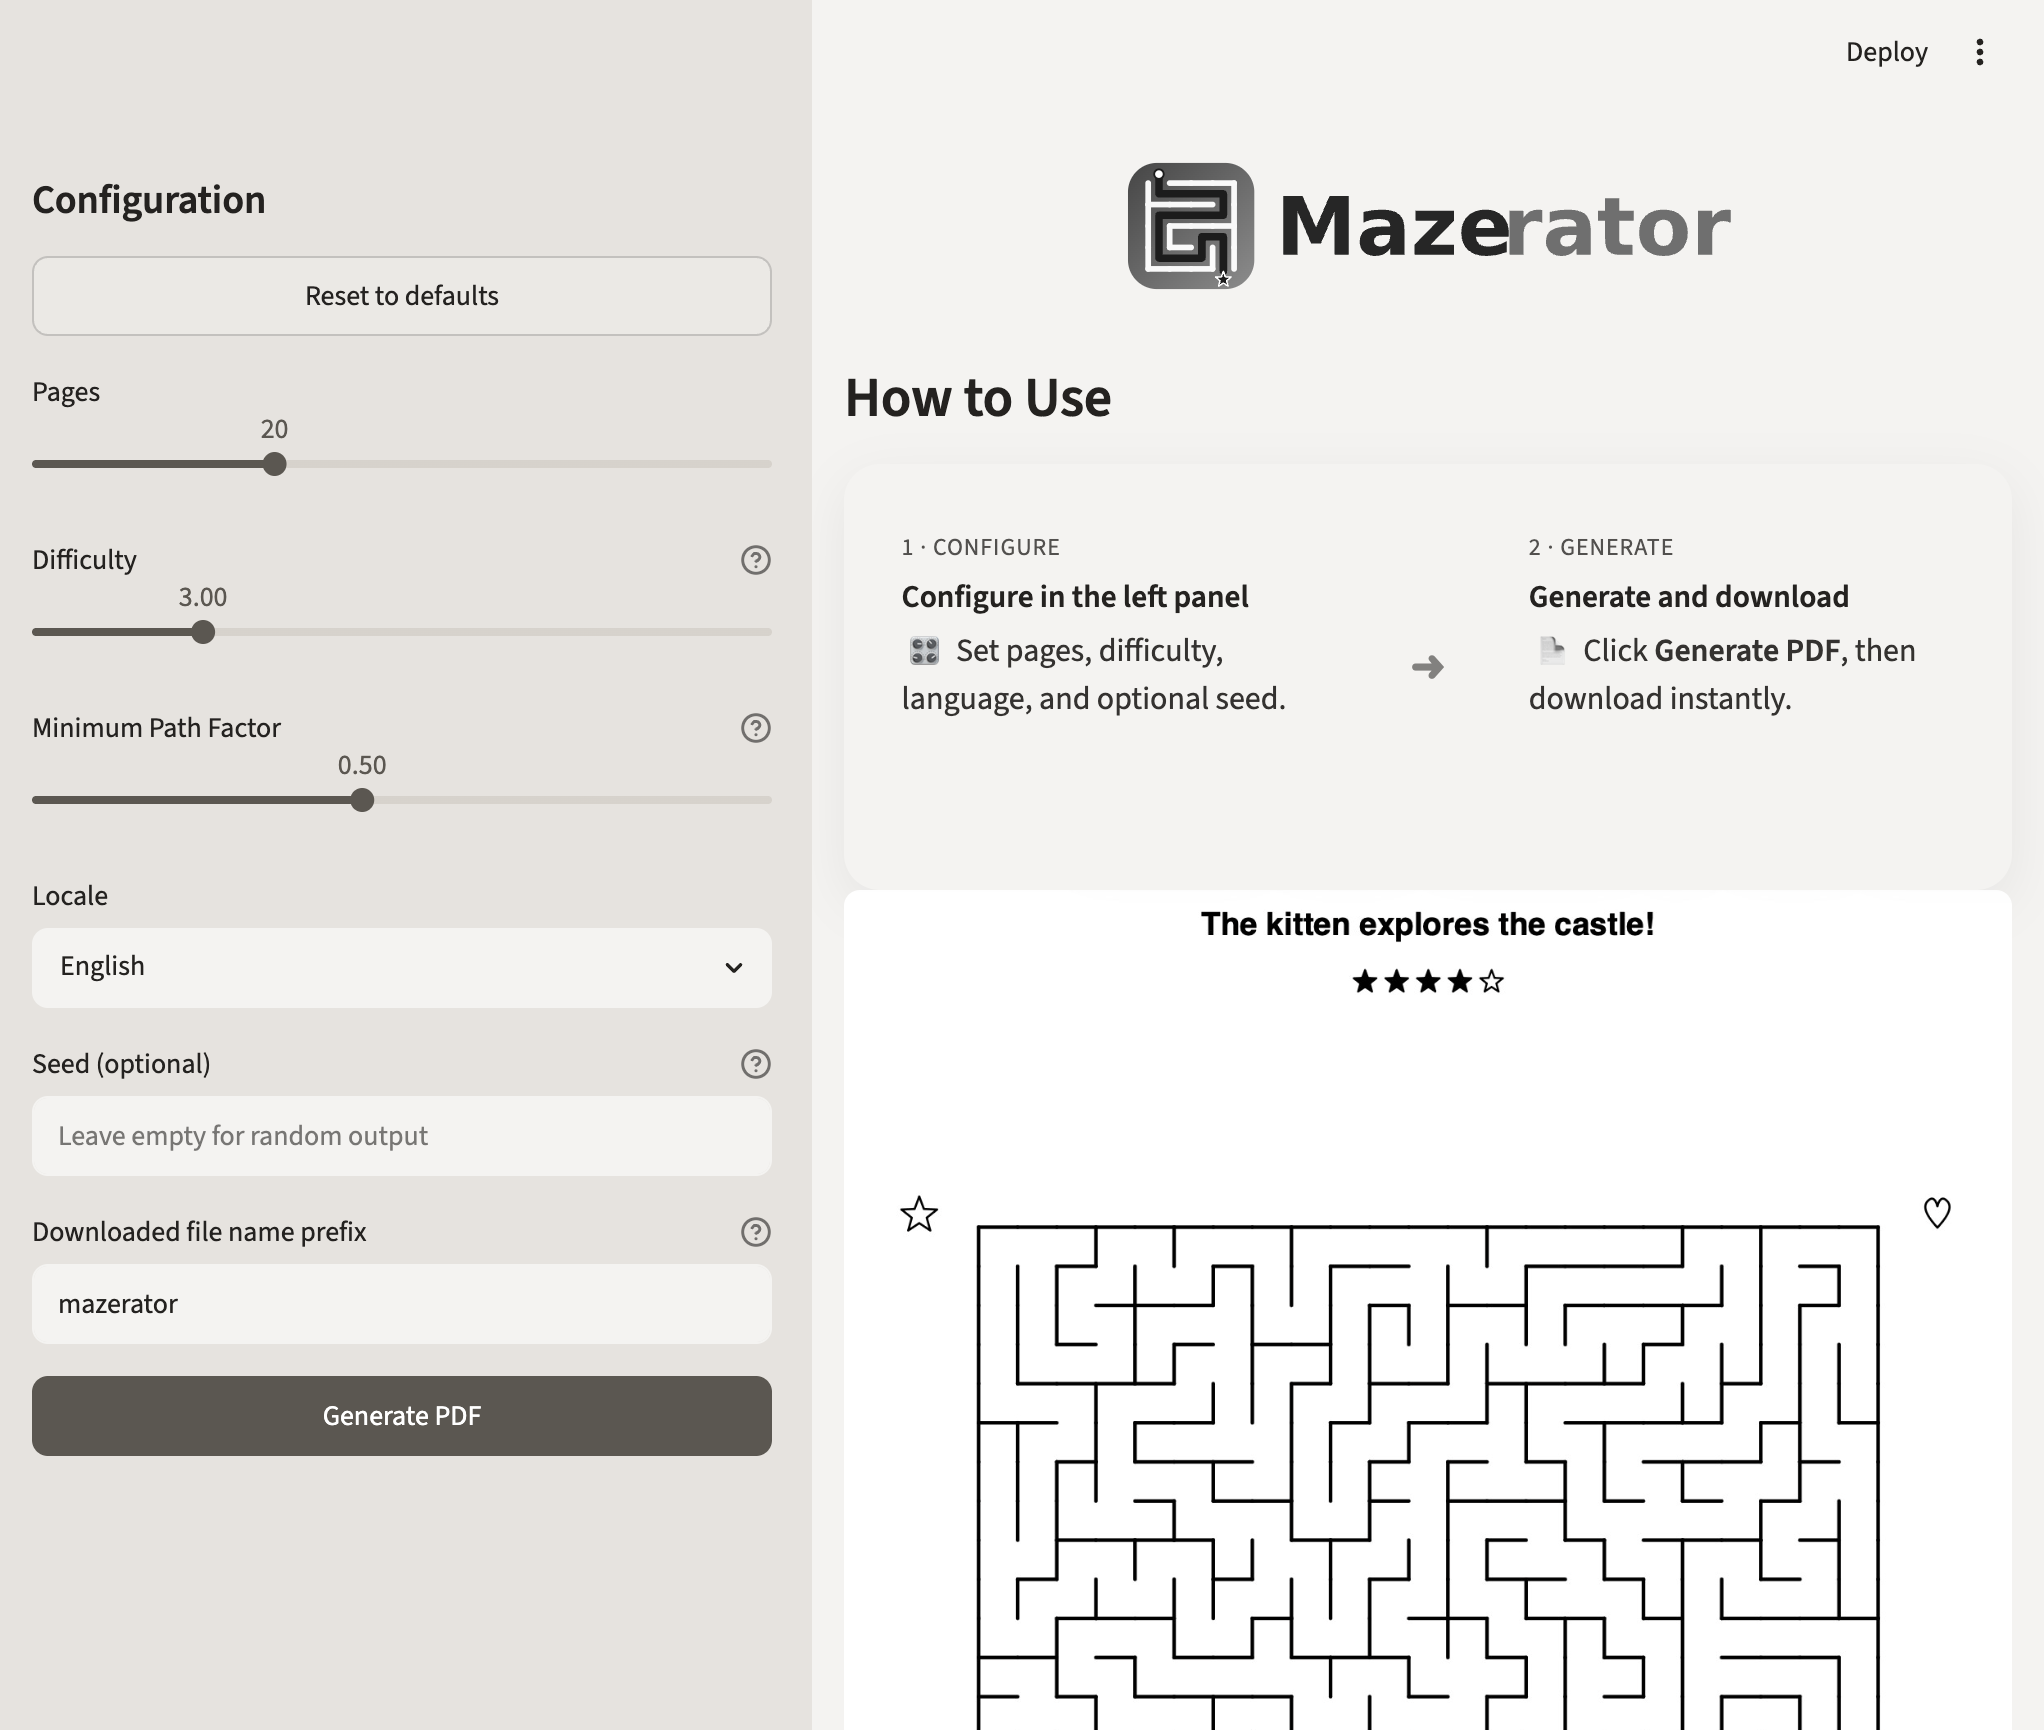
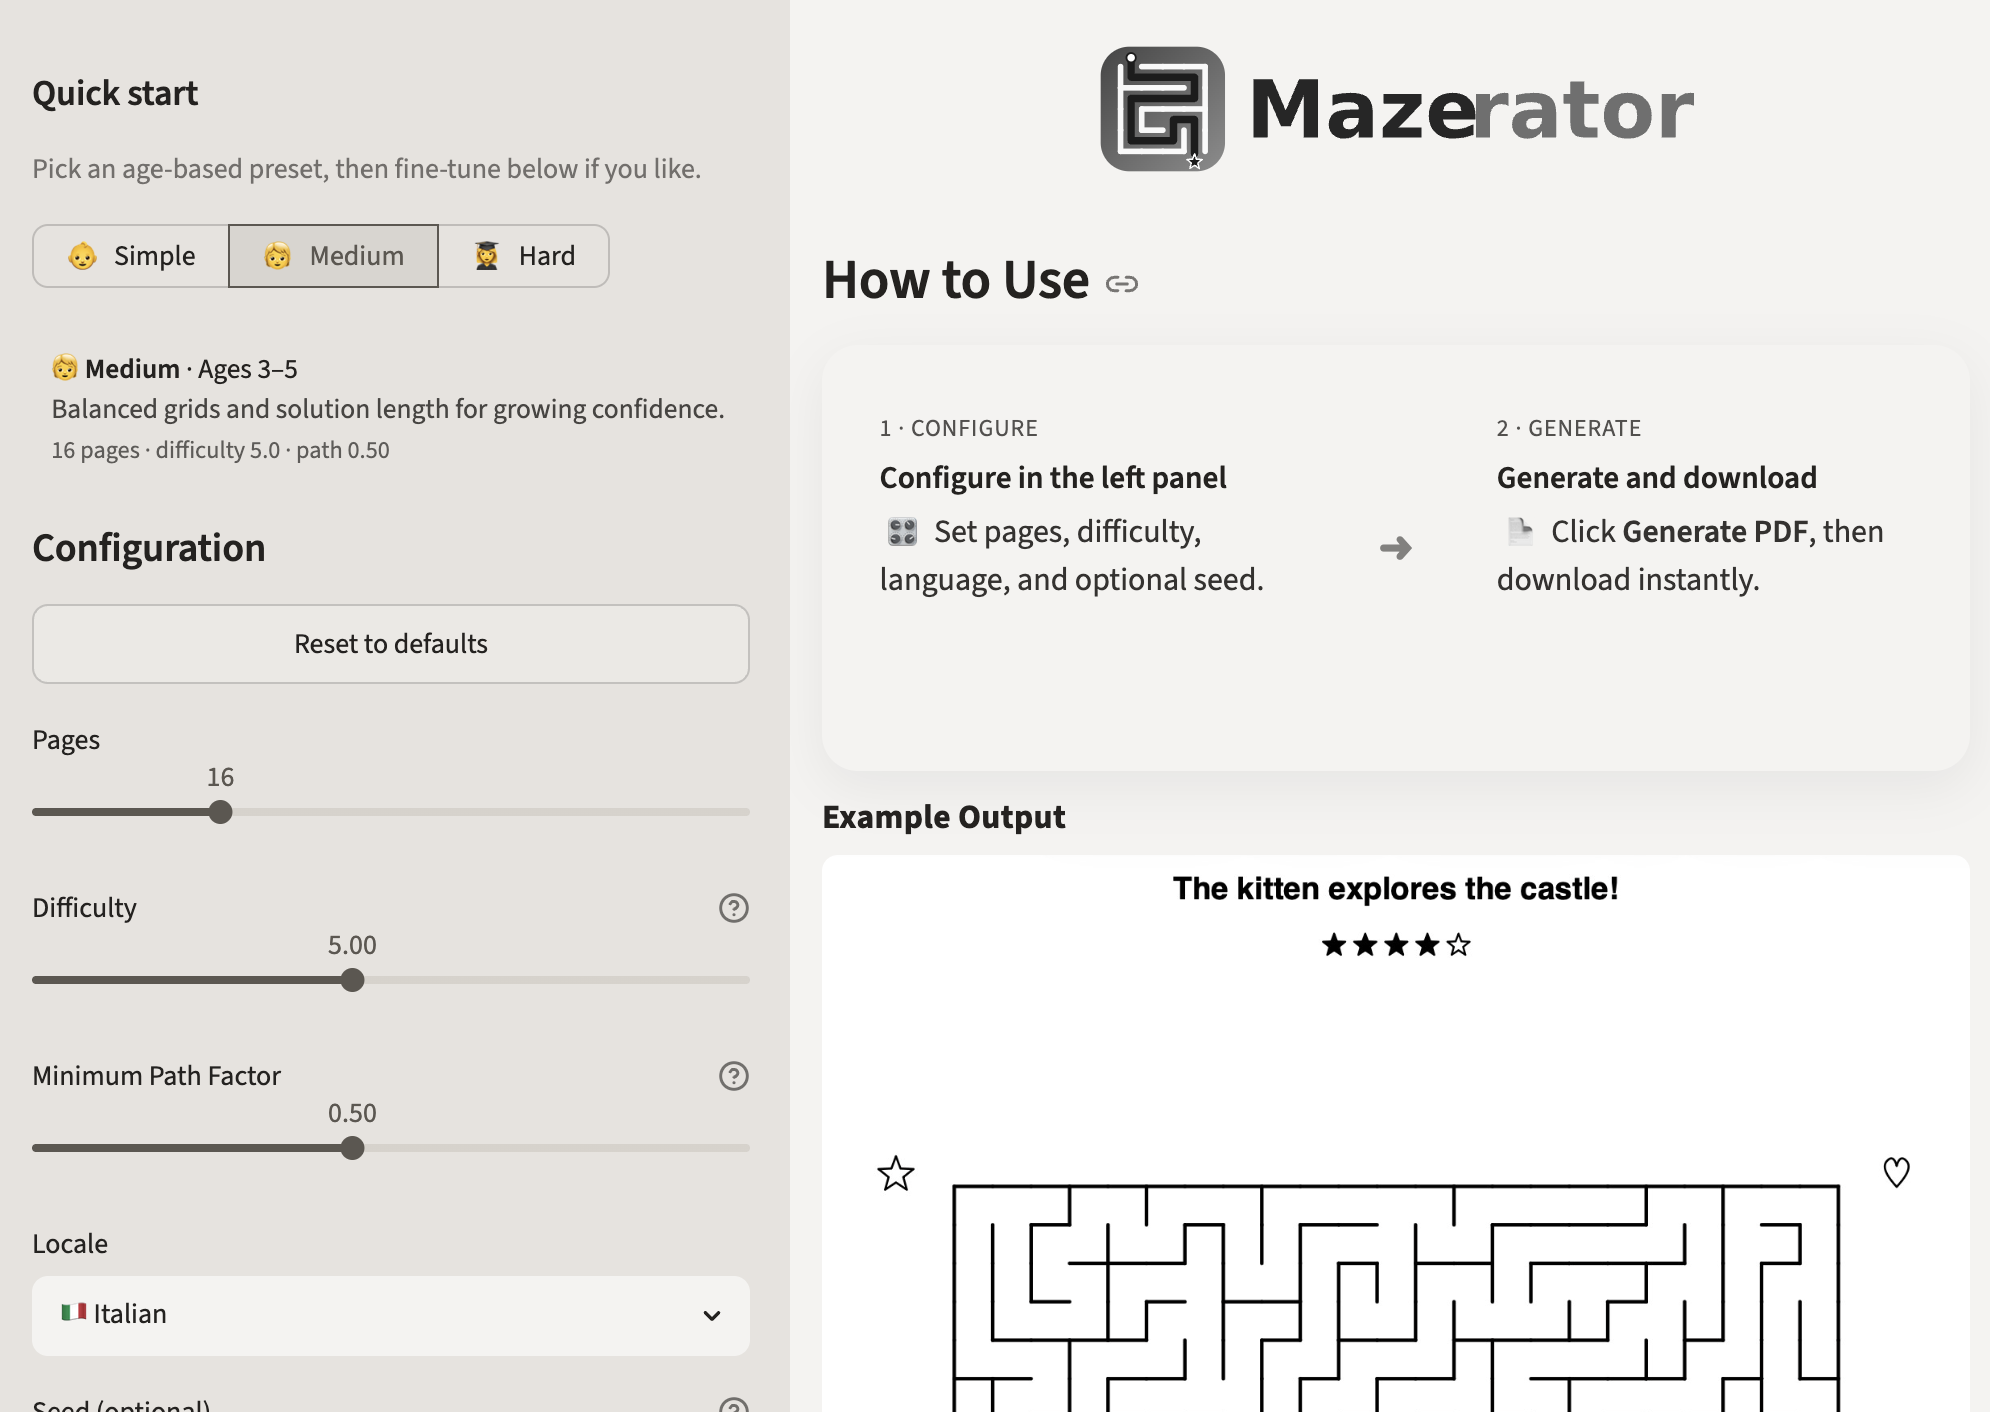
update webui screenshots

diff --git a/README.md b/README.md
@@ -207,7 +207,9 @@ Without UV (standard Python + pip):
 A mobile-friendly Streamlit app is included so users can pick options from
 sliders/menus and download the generated PDF directly.
 
-<img src="./docs/web-ui-preview.png" alt="Mazerator Streamlit web app preview" width="760" />
+<img src="./docs/web-ui-preview.png" alt="Mazerator Streamlit web app preview upper" width="760" />
+
+<img src="./docs/web-ui-preview-2.png" alt="Mazerator Streamlit web app preview bottom" width="760" />
 
 _Preview of the Streamlit web UI: sidebar controls, visual guide, and one-click PDF download._
 